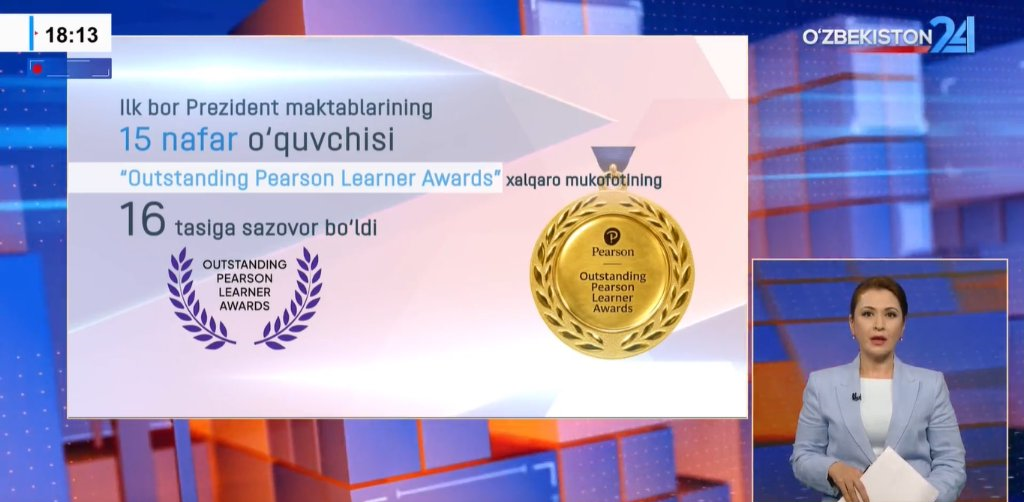
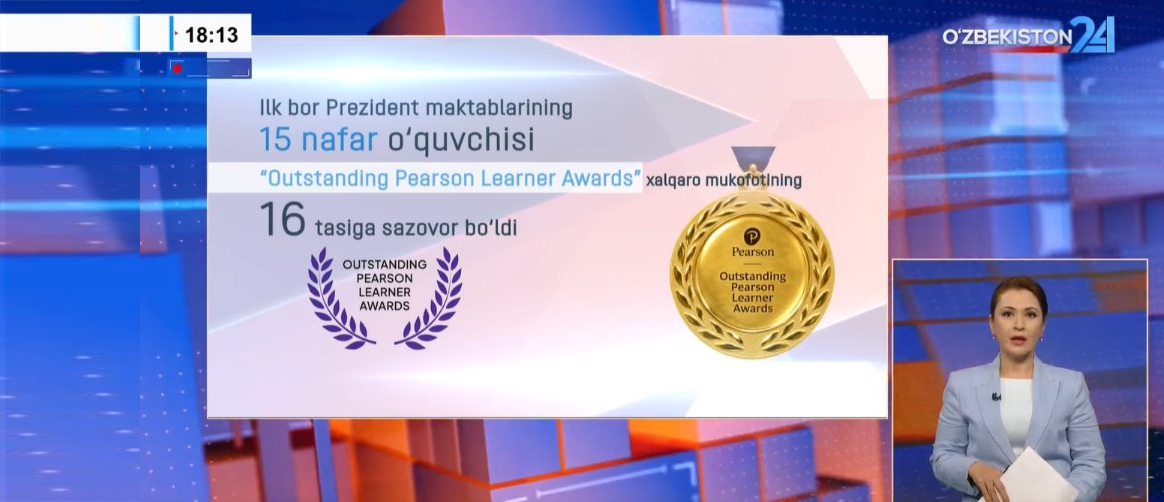
Yangilik cardlaridagi rasmlar o'lchamini to'g'irlash va qora hoshiyalarni bartaraf etish

diff --git a/src/pages/News.jsx b/src/pages/News.jsx
@@ -31,17 +31,12 @@ export default function News() {
                     {/* Top Hero Section */}
                     <section className="space-y-4">
                         <div className="bg-white rounded-2xl shadow-sm border border-slate-100 overflow-hidden flex flex-col md:flex-row h-auto md:h-[350px] lg:h-[360px]">
-                            <div className="w-full md:w-[50%] lg:w-[52%] aspect-video md:aspect-auto h-auto md:h-full relative overflow-hidden shrink-0 bg-slate-950 flex items-center justify-center">
-                                <img
-                                    src={getAssetPath(heroData[heroIdx].image)}
-                                    alt=""
-                                    className="absolute inset-0 w-full h-full object-cover blur-xl opacity-40 scale-110 pointer-events-none"
-                                />
+                            <div className="w-full md:w-[50%] lg:w-[52%] h-60 sm:h-72 md:h-full relative overflow-hidden shrink-0 bg-slate-100">
                                 <img
                                     key={heroData[heroIdx].image}
                                     src={getAssetPath(heroData[heroIdx].image)}
                                     alt="Hero"
-                                    className="w-full h-full object-contain relative z-10 animate-fade-in"
+                                    className="w-full h-full object-cover animate-fade-in"
                                 />
                             </div>
                             <div className="w-full md:w-[50%] lg:w-[48%] p-5 md:p-6 flex flex-col justify-between h-full relative group hover:bg-slate-50/60 transition-colors">
